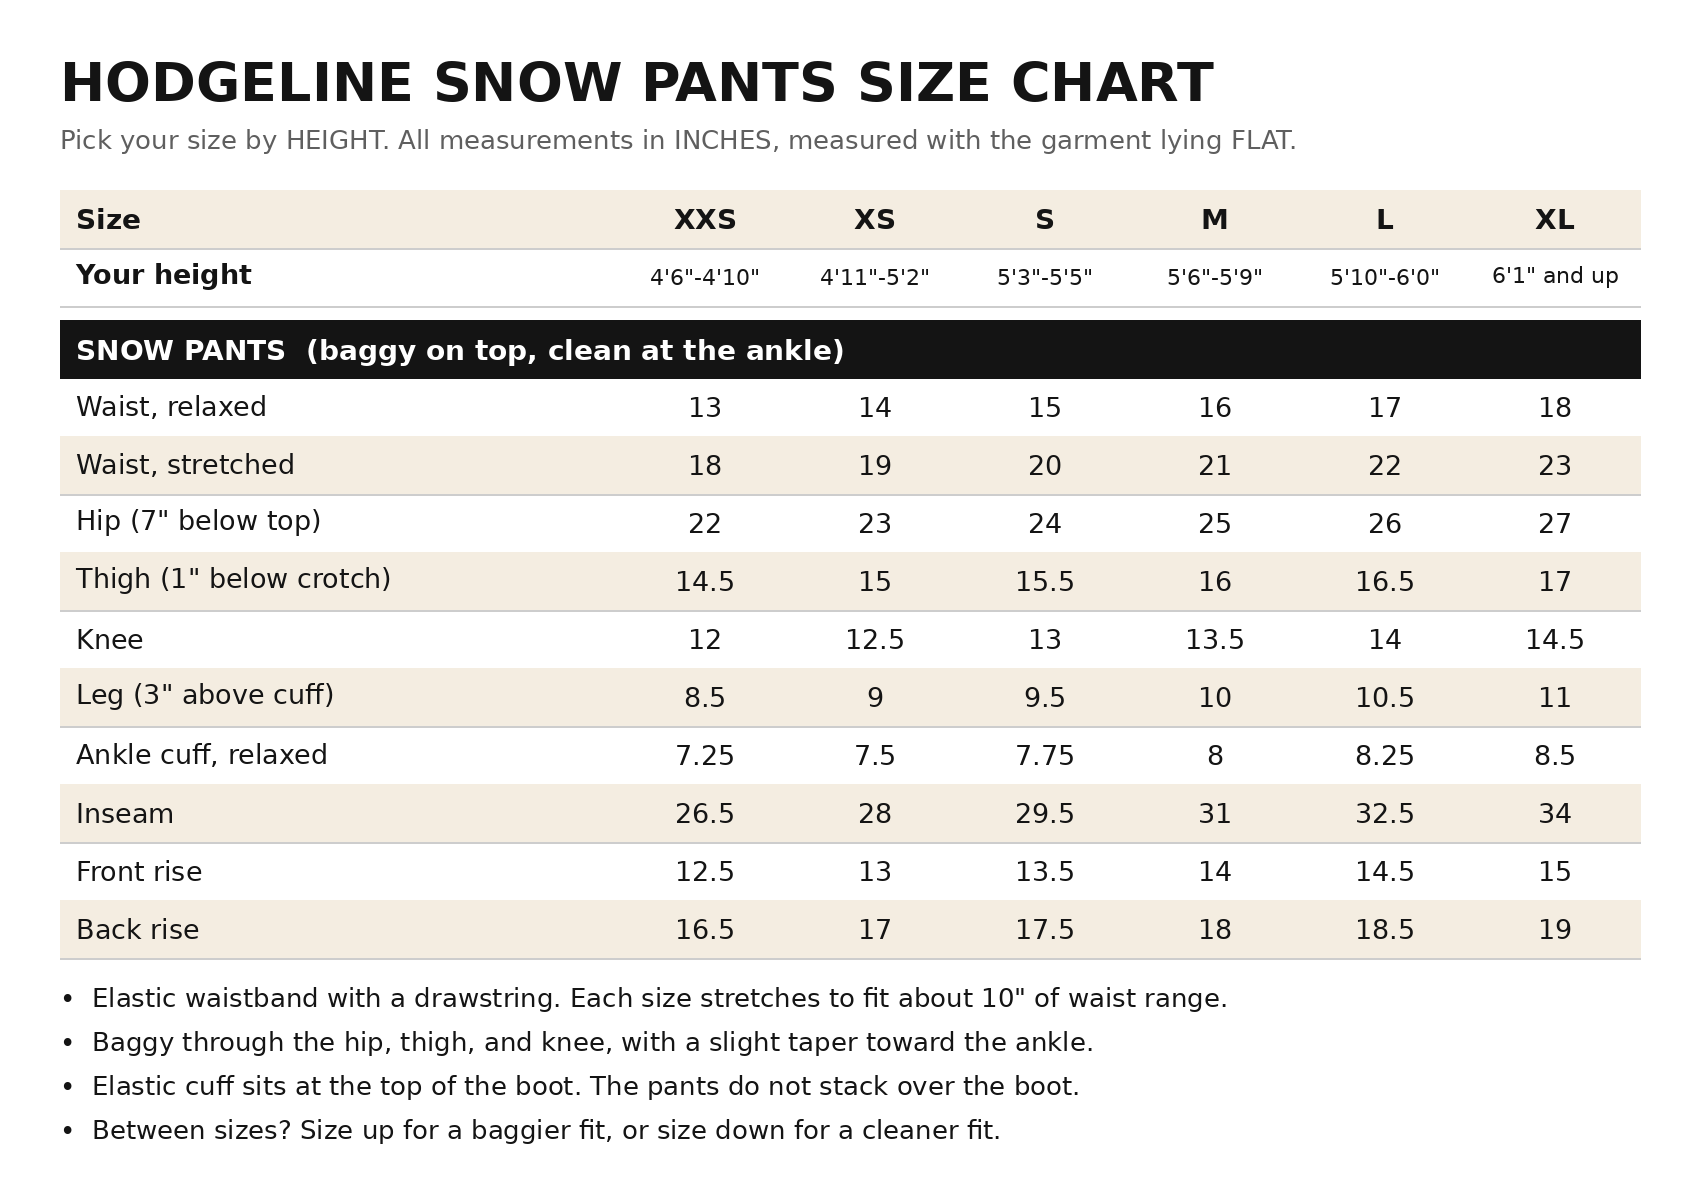
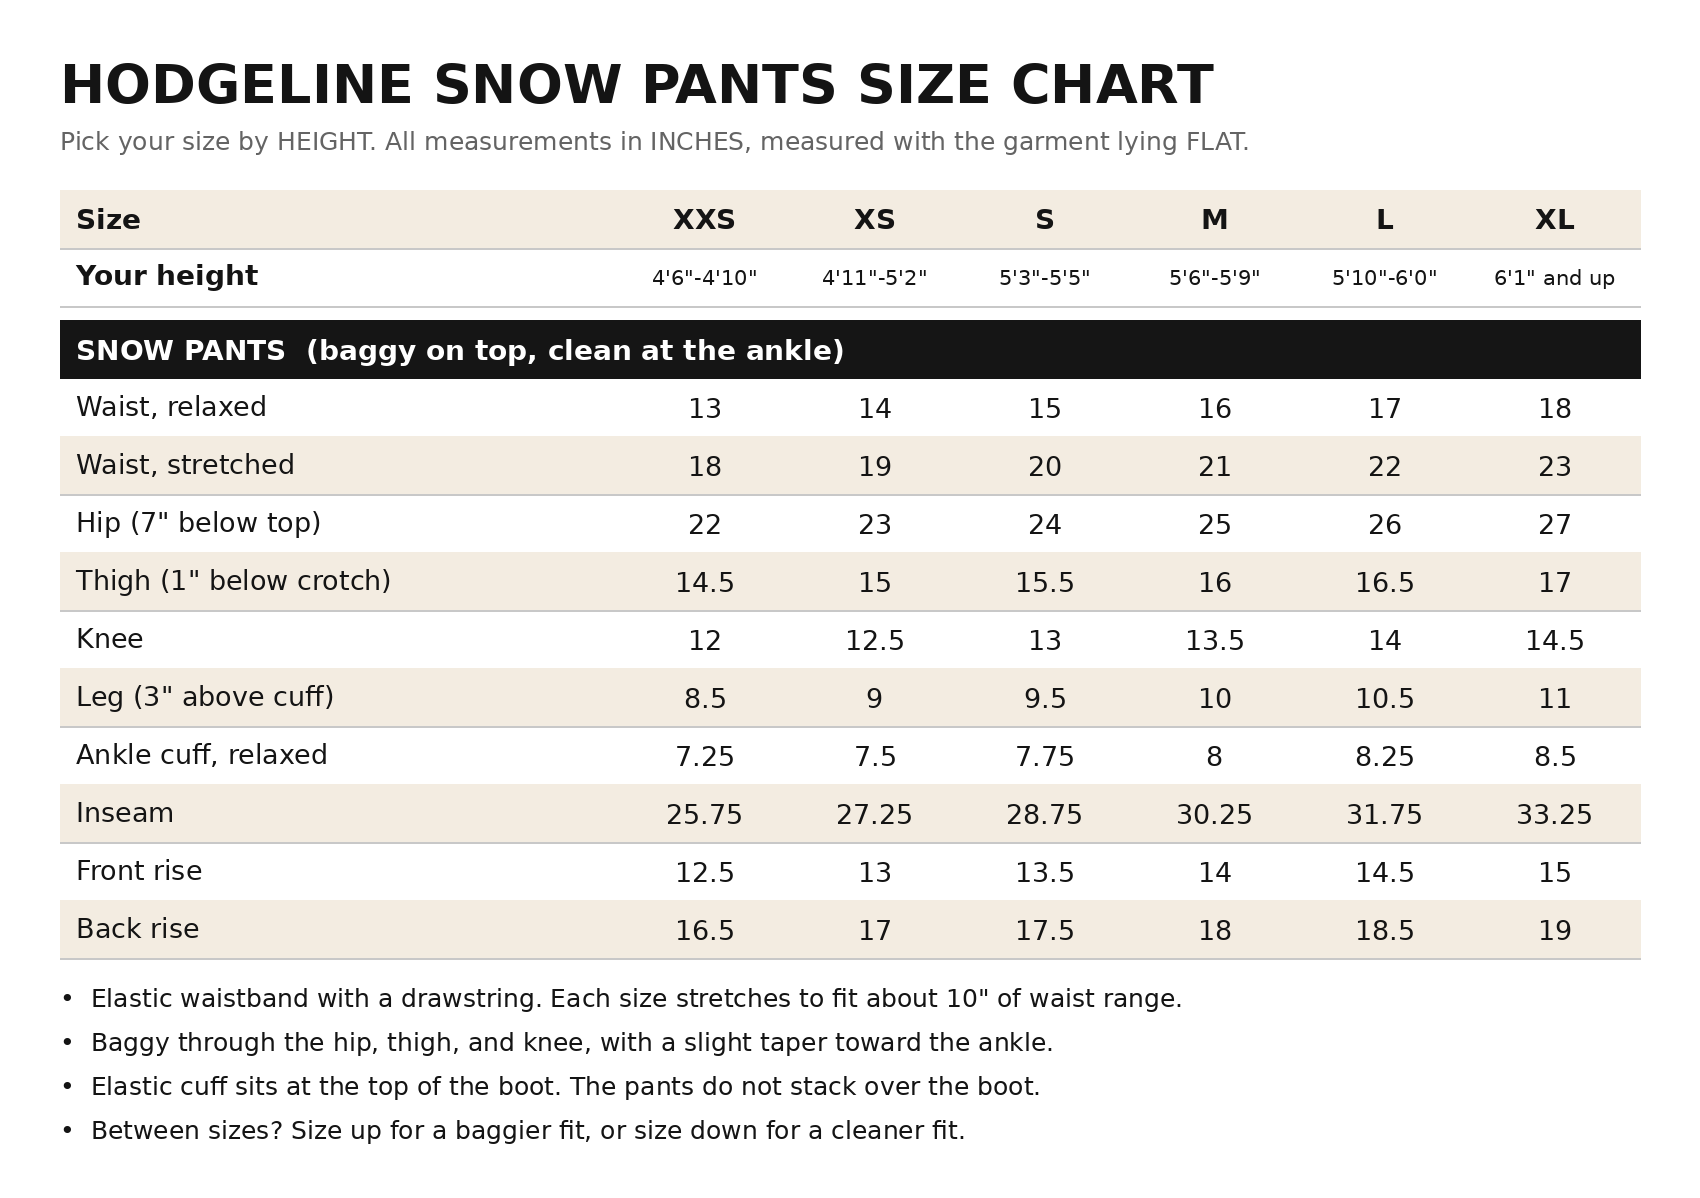
Remove repost link from sponsor form; update size charts for longer Shell and shorter Pants
Claude-Session: https://claude.ai/code/session_01XNgcdYp5TVHE1peKTFSJHY

diff --git a/sponsors.html b/sponsors.html
@@ -183,7 +183,7 @@
         <ol class="steps">
           <li>Follow <a href="https://www.instagram.com/hodgelineapparel/" target="_blank" rel="noopener">@hodgelineapparel</a> on Instagram or <a href="https://www.tiktok.com/@hodgelineapparel" target="_blank" rel="noopener">TikTok</a>.</li>
           <li>Repost one Hodgeline video to your page or story.</li>
-          <li>Fill this out with a link to your repost. We'll reply by email or DM.</li>
+          <li>Fill this out. We check your reposts, then we'll reply by email or DM.</li>
         </ol>
       </div>
       <form class="app" action="https://formsubmit.co/hodgelinebrand@gmail.com" method="POST">
@@ -197,7 +197,6 @@
             <option value="">Pick one</option>
             <option>Under 500</option><option>500 to 2,000</option><option>2,000 to 10,000</option><option>10,000+</option>
           </select></div>
-        <div class="full"><label for="a-rp">Link to your repost of a Hodgeline video</label><input id="a-rp" type="url" name="repost_link" placeholder="https://" required></div>
         <div class="full"><label for="a-why">Why should you ride for Hodgeline? <span>(optional)</span></label><textarea id="a-why" name="why"></textarea></div>
         <input type="hidden" name="_subject" value="New Mountain Goat application">
         <input type="hidden" name="_template" value="table">
